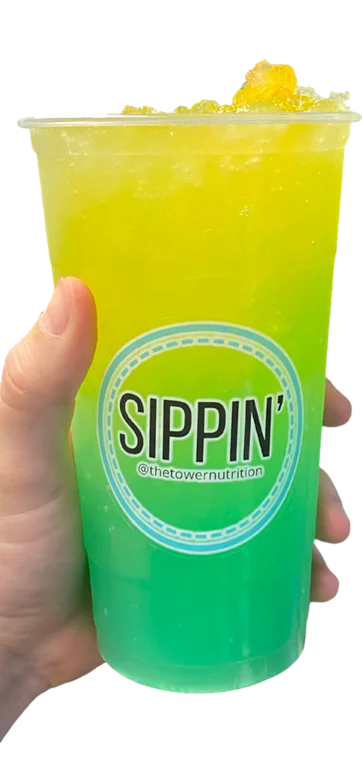
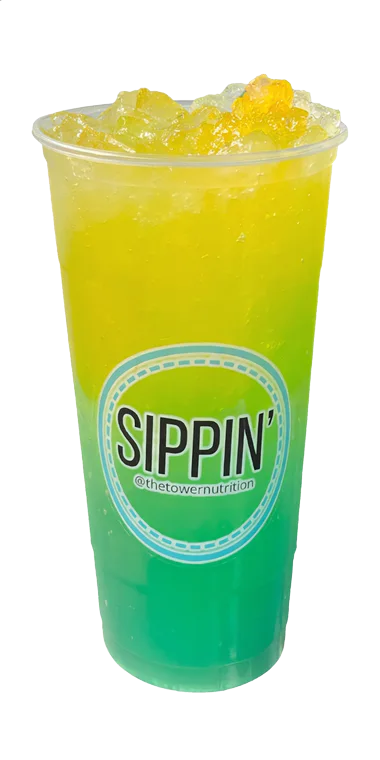
Real drinks, no hands: back to the clean floating-cup format
Their own cup photos are all hand-held and only one hand-free single-cup photo exists in their library, so the
hands were removed with kling_omni_image (0.5 credits each, Higgsfield now 0.1). The drink, layers, ice, flat
lid and SIPPIN'/THE TOWER sticker lettering are untouched; only the hand is repaired.

diff --git a/index.html b/index.html
@@ -14,7 +14,7 @@
 <link rel="preconnect" href="https://fonts.gstatic.com" crossorigin>
 <link href="https://fonts.googleapis.com/css2?family=Big+Shoulders+Display:wght@700;800;900&family=Oswald:wght@500;700&family=Manrope:wght@400;500;600;700&family=Space+Mono:wght@400;700&display=swap" rel="stylesheet">
 <link rel="preload" as="image" href="img/01-cup.webp">
-<link rel="stylesheet" href="css/site.css?v=202609081559">
+<link rel="stylesheet" href="css/site.css?v=202609081734">
 </head>
 <body>
 
@@ -295,10 +295,10 @@
   </div>
 </footer>
 
-<script src="js/vendor/gsap.min.js?v=202609081559"></script>
-<script src="js/vendor/ScrollTrigger.min.js?v=202609081559"></script>
-<script src="js/vendor/lenis.min.js?v=202609081559"></script>
-<script src="js/manifest.js?v=202609081559"></script>
-<script src="js/loadout.js?v=202609081559"></script>
+<script src="js/vendor/gsap.min.js?v=202609081734"></script>
+<script src="js/vendor/ScrollTrigger.min.js?v=202609081734"></script>
+<script src="js/vendor/lenis.min.js?v=202609081734"></script>
+<script src="js/manifest.js?v=202609081734"></script>
+<script src="js/loadout.js?v=202609081734"></script>
 </body>
 </html>
